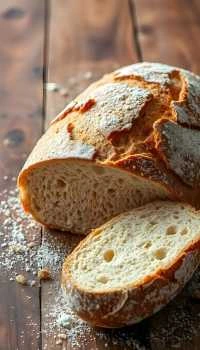
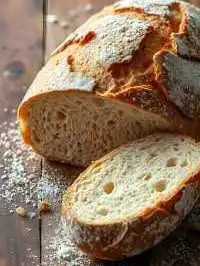
added more pics, optimized as much as possible

diff --git a/project/scripts/cottage.js b/project/scripts/cottage.js
@@ -83,7 +83,7 @@ const breads = [
         breadName: "Sourdough Cinnamon Rolls",
         price: "$15.00",
         category: "Treats",
-        imageUrl: "images/sourdoughcinnamonrolls.webp",
+        imageUrl: "images/cinnamonrolls.webp",
     },
     {
         breadName: "Jalapeno Cheddar Loaf",
